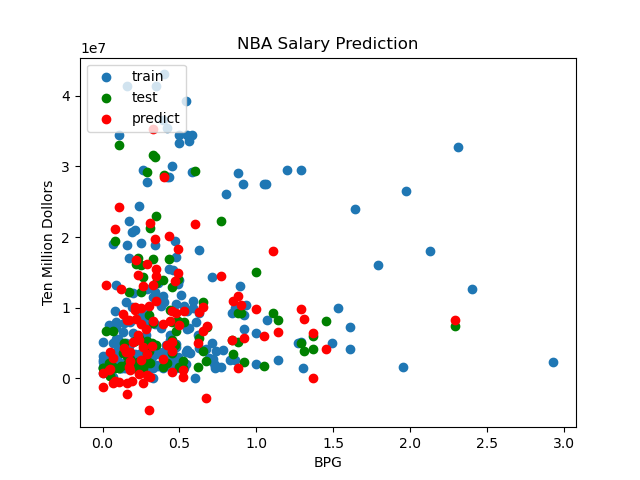
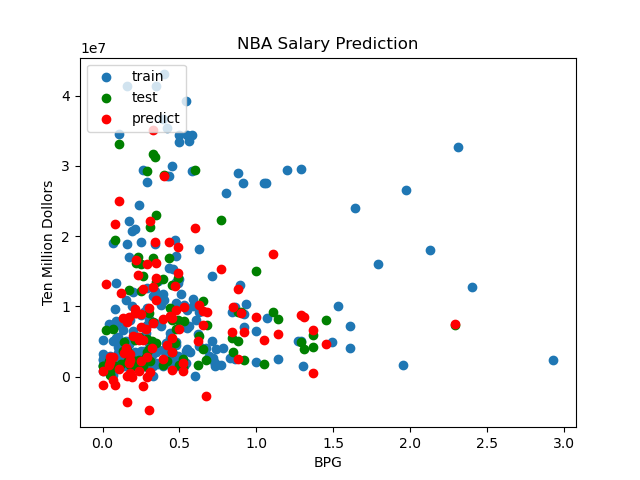
stats fix

diff --git a/code.py b/code.py
@@ -13,7 +13,7 @@ import matplotlib.pyplot as plt
 
 def load_train_test_data(train_ratio):
     data = pandas.read_csv('./train_test.csv')
-    feature_col = ['AGE', 'MIN%', 'USG%', 'TO%', 'FT%', '2P%', '3P%', 'eFG%', 'TS%',
+    feature_col = ['POS', 'AGE', 'MIN%', 'USG%', 'TO%', 'FT%', '2P%', '3P%', 'eFG%', 'TS%',
                    'PPG', 'RPG', 'TRB%', 'APG', 'AST%', 'SPG', 'BPG', 'TOPG', 'VI', 'ORTG', 'DRTG']
     label_col = ['SALARY']
     X = data[feature_col]
@@ -24,7 +24,7 @@ def load_train_test_data(train_ratio):
 
 def load_players_data():
     data = pandas.read_csv('./players.csv')
-    feature_col = ['AGE', 'MIN%', 'USG%', 'TO%', 'FT%', '2P%', '3P%', 'eFG%', 'TS%',
+    feature_col = ['POS', 'AGE', 'MIN%', 'USG%', 'TO%', 'FT%', '2P%', '3P%', 'eFG%', 'TS%',
                    'PPG', 'RPG', 'TRB%', 'APG', 'AST%', 'SPG', 'BPG', 'TOPG', 'VI', 'ORTG', 'DRTG']
     name_col = ['NAME']
     label_col = ['SALARY']
